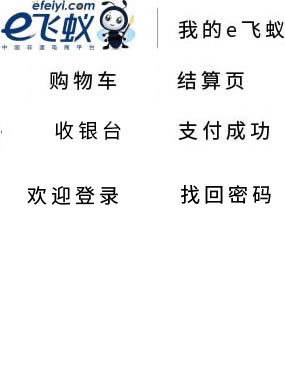
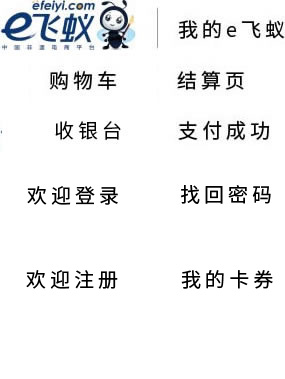
在线咨询

Changed region(s): [[0.0842, 0.6966, 0.4211, 0.7836], [0.6175, 0.6966, 0.786, 0.7836], [0.814, 0.6966, 0.9544, 0.7836]]

diff --git a/ef-website/src/main/webapp/scripts/css/login.css b/ef-website/src/main/webapp/scripts/css/login.css
@@ -1,0 +1,215 @@
+@charset "utf-8";
+body, h1, h2, h3, h4, h5, h6, ul, li, dl, dt, dd, img, input, a, p, strong, em, i {margin:0;padding:0;border:0;list-style:none;font-family:"Microsoft YaHei"}
+strong, b, em {font-weight:normal;font-style:normal}
+img {border:0}
+ul, dl {list-style:none}
+a {color:#000;outline:none;cursor:pointer}
+a:hover {color:#f00;text-decoration:underline}
+/*--reset--.icon {background:url(../images/icon.png) no-repeat}*/
+.hd {width:1200px;margin:0 auto}
+.wh {width:100%;float:left}
+.icon {background:url(../images/icon.png) no-repeat}
+.more {font-family:KaiTi;font-weight:bold;font-size:12px;color:#000}
+.more .icon {background-position:-18px -50px;width:8px;height:7px;float:left;margin-top:8px;margin-right:2px}
+.more:hover .icon {background-position:-26px -50px}
+.red {color:red}
+/*--//End--common*/
+.header {min-width:1200px;border-bottom:3px #000 solid;background:#fff}
+.header .logo {padding:15px 0;float:left}
+.header .logo a {background-position:0 0;width:307px;height:50px;float:left}
+.header .nav ul {float:right;margin-top:15px;margin-right:154px}
+.header .nav li {float:left;line-height:68px;position:relative}
+.header .nav li a {font-size:14px;color:#000;padding:0 30px;font-weight:bolder;font-family:FangSong;position:relative;z-index:5}
+.header .nav li a:hover {color:#f00;text-decoration:underline}
+.header .nav li a.cur {color:#f00}
+.header .nav li .bgbor {border:1px #fff solid;border-bottom:none;background:#fff;width:112px;height:49px;position:absolute;top:16px;left:0;z-index:4}
+.header .nav li.hover>.bgbor a:hover {color:#000;text-decoration:none}
+.header .nav li.hover .bgbor {border:1px #000 solid;border-bottom:none;height:55px}
+.header .nav-links {width:1158px;padding:30px 20px;border:1px #000 solid;position:absolute;top:70px;left:-648px;box-sizing:content-box;background:#fff;z-index:3;display:none}
+.header .nav-links ul {width:105px;float:left;margin:0}
+.header .nav-links li {width:100%;line-height:24px;float:left;font-family:FangSong;font-size:12px}
+.header .nav-links li a {width:100%;float:left;padding:0;text-decoration:underline}
+.header .nav-links li a:hover {color:#f00}
+.header .nav-links .title {border-bottom:1px #b2b2b2 solid;color:#999;padding-bottom:5px;margin-bottom:5px}
+/*--//End--header--*/
+.login-form .icon {height:18px;position:absolute;top:50%;margin-top:-9px;left:10px}
+.login-wrap {width:920px;margin:70px 180px;float:left;font-size:12px}
+.login-wrap .banner {float:left}
+.login-form {width:300px;padding:34px;border:1px #ccc solid;float:right;box-sizing:content-box}
+.login-form legend {border-bottom:0}
+.login-form .mt {margin-bottom:30px}
+.login-form .am-form h1 {font-size:18px;float:left}
+.login-form .am-form .link {float:right;margin-top:5px}
+.login-form .am-form .link a, .login-form .am-form .link p {font-size:12px;color:#999;float:left}
+.login-form .am-form .link a:hover {color:#f00}
+.login-form .am-form .link .reg {color:#036;text-decoration:underline}
+.login-form .am-form-group {width:100%;line-height:25px;float:left;margin-bottom:20px;position:relative}
+.login-form .am-form-group .icon {height:18px;position:absolute;top:50%;margin-top:-9px;left:10px}
+.login-form .am-form-group .txt-yzm {width:156px;float:left;margin-right:16px}
+.login-form .am-form-group .btn-yzm {width:112px;height:36px;line-height:36px;text-align:center;border:1px #ccc solid;float:left;text-decoration:none;font-family:KaiTi}
+.login-form .name {background-position:-68px -50px;width:18px}
+.login-form .pwd {background-position:-87px -50px;width:14px;left:12px}
+.login-form input[type=text], .login-form input[type=password] {font-size:12px;padding:9px 0 9px 9px}
+.login-form input[type=text]:focus, .login-form .am-form input[type=password]:focus {border:1px #000 solid;box-shadow:none}
+.login-form label {color:#7b7b7b;font-weight:normal;font-size:12px;margin-bottom: 0}
+.login-form .checkbox {float:left}
+.login-form .agree {font-size:12px;color:#036}
+.login-form .forgetpwd {float:right;color:#036;
+    font-size: 12px;}
+.login-form .forgetpwd:hover {color:#f00}
+.login-form .msg-tips {position:absolute;top:34px;left:0}
+.login-form .msg-tips .msg {color:#f00;font-size:10px;transform:scale(0.3)}
+.login-form .msg-tips span a {color:#036}
+.login-form .am-btn {background:#fff;width:100%;color:#000;border:1px #000 solid;font-size:16px;margin-top:-20px}
+.login-form .am-btn:hover {background:#000;color:#fff}
+.login-form .coagent {margin-top:20px}
+.login-form .coagent h5 {width:100%;color:#666;font-weight:normal;float:left;margin-bottom:15px}
+.login-form .coagent .wechat {background-position:-102px -50px;width:26px;height:22px;float:left}
+.login-form #username, .login-form #password {padding-left:35px}
+.reg-form #username, .reg-form #password {padding-left:10px}
+.reg-form .btn-p1{width:112px;height:36px;line-height:36px;text-align:center;border:1px solid #ccc;float:left;text-decoration:none;background:#fff;transition:all 0.5s;
+    font-size: 12px;}
+.reg-form .btn-p1:hover{background:#000;color:#fff;}
+.text1 {font-size:12px;padding:9px 0 9px 9px;border:1px #000 solid;box-shadow:none;background:#fff;}
+.textam {width:100%!important;}
+.login-reg {width:100%;text-align:center;float:left;padding:50px 0}
+.login-reg a {width:40%;line-height:42px;border:1px #000 solid;text-align:center;display:inline-block;margin:0 6px;color:#000}
+.login-reg .logined a {width:auto;line-height:36px;border:0}
+/*--//End--login-form--*/
+.footer {min-width:1200px;border-top:3px #000 solid;font-size:12px;background:#fff}
+.footer .icon {background:url(../images/footer-icon.png) no-repeat;display:inline-block}
+.footer .service {padding:20px 0;text-align:center;position:relative;}
+.footer .service .phone {background-position:0 0;width:225px;height:58px;position:relative;top:5px}
+.footer .service .platform {background-position:0 -58px;width:143px;height:51px}
+.footer .service .platform a {width:143px;height:51px;line-height:999px;float:left;overflow:hidden}
+.footer .service .chengbao {background-position:0 -109px;width:100px;height:45px}
+.footer .service .chengbao a {width:137px;height:61px;line-height:999px;float:left;overflow:hidden}
+.footer .service .wechat {background-position:0 -155px;width:73px;height:53px;position:relative;top:5px}
+.footer .service .wechat .icon {background:url(../images/fwechat.png) no-repeat;width:215px;height:220px;position:absolute;top:-145px;left:-4px;display:none;}
+.footer .service .line {width:2px;height:42px;display:inline-block;margin:0 30px;background:#c1c1c1}
+.footer .links {background:#000;height:16px;line-height:16px;text-align:center;padding:15px 0}
+.footer .links a {margin:0 10px;display:inline-block;box-sizing:content-box;color:#fff}
+.footer .links a.line {width:1px;height:10px;background:#b3b3b3;top:2px;position:relative}
+.footer .links a:hover {color:#f00;text-decoration:underline}
+.footer .copyright {background:#000;padding:15px 0;text-align:center}
+.footer .copyright .phone strong, .footer .copyright .phone em {font-style:italic;font-weight:bold;letter-spacing:5px;font-size:12px;color:#666}
+.footer .copyright .phone em {font-size:18px}
+.footer .copyright .frlinks {margin:10px 0}
+.footer .copyright .frlinks a {color:#666;margin:0 5px;display:inline-block}
+.footer .copyright .frlinks span, .footer .copyright .info {color:#666}
+.thickframe {position:fixed;top:0;left:0;z-index:100;width:100%;height:100%;border:0;display:none}
+.thickframe .thickdiv {position:fixed;top:0;left:0;z-index:101;width:100%;height:100%;background:#000;border:0;filter:alpha(opacity =60);opacity:.6}
+.thickframe .thickbox {width:1000px;height:500px;position:fixed;top:50%;margin-top:-250px;left:50%;margin-left:-500px;z-index:102;overflow:hidden;padding:0;border:4px solid rgba(0, 0, 0, 0.1);border-radius:5px;-moz-border-radius:5px;-webkit-border-radius:5px;background:#fff}
+.thickframe .thicktitle {height:27px;padding:0 10px;border:solid #C4C4C4;border-width:1px 1px 0;background:#F3F3F3;line-height:27px;font-family:arial, "\5b8b\4f53";font-size:14px;font-weight:bold;color:#333}
+.thickframe .thickcon {overflow:auto;background:#fff;border:1px solid #C4C4C4;padding:10px}
+.thickframe #protocol-con{height:356px;overflow:auto;padding:10px 20px 0 10px;font-size:12px}
+.thickframe #protocol-con h3 {font-size:14px;line-height:40px}
+.thickframe #protocol-con h4 {line-height:30px}
+.thickframe #protocol-con p {line-height:20px}
+.thickframe .thickcon .btnt{width:322px;margin:20px auto 0}
+.thickframe .thickcon .btnt .btn-img{width:322px;height:34px;line-heiht:34px;background:#e4393c;color:#FFF;-moz-border-radius:3px;-webkit-border-radius:3px;border-radius:3px;font-family:SimSun;font-size:16px;font-weight:800}
+.thickframe .thickclose:link {display:block;position:absolute;z-index:100000;top:7px;right:12px;overflow:hidden;width:15px;height:15px;background-position:-276px -50px;font-size:0;line-height:100px}
+.title {font-size:16px;font-weight:bold;border-bottom:2px solid #247ba0;}
+.am-nav-tabs > li.am-active > a,
+.am-nav-tabs > li.am-active > a:hover,
+.am-nav-tabs > li.am-active > a:focus {color:#555;background-color:#fff;border:1px solid #ddd;border-bottom-color:transparent;cursor:default;background-color:#8cc5fb;color:white;}
+.am-active {background-color:#8cc5fb;}
+/*--//End--footer*/
+a, .ul-item li, .ul-item li img, .imgfilter {-webkit-transition:all 0.4s;-moz-transition:all 0.4s;transition:all 0.4s}
+.imgfilter:hover {opacity:0.6;filter:alpha(opacity=60)}
+.more:hover, .footer .copyright .frlinks a:hover, .shop-sort .link2 dd a:hover {color:#f00;text-decoration:underline}
+.login-form .mt {margin-bottom:30px}
+.login-form h1 {font-size:18px;float:left}
+.login-form .link {float:right;margin-top:5px}
+.login-form .link a, .login-form .am-form .link p {font-size:12px;color:#999;float:left}
+.login-form .link a:hover {color:#f00}
+.login-form .link .reg {color:#036;text-decoration:underline}
+#login-b li {position:absolute;top:0;left:0;}
+#login-b {position:relative;width:490px;height:410px}
+.title {font-size:16px;font-weight:bold;border-bottom:2px solid #247ba0;}
+.am-nav-tabs > li.am-active > a, .am-nav-tabs > li.am-active > a:hover, .am-nav-tabs > li.am-active > a:focus {color:#555;background-color:#fff;border:1px solid #ddd;border-bottom-color:transparent;cursor:default;background-color:#8cc5fb;color:white;}
+.am-active {background-color:#8cc5fb;}
+/*--//End--transition*/
+.dialog-login .content {
+    width:806px;
+    height: 468px;
+    background: #fff;
+    position: fixed;
+    top:50%;
+    left: 50%;
+    margin-top:-234px;
+    margin-left: -403px;
+    z-index:2;
+}
+.dialog-login .content .icon-close {
+    background:url(../images/login.png) no-repeat 0 0;
+    width: 31px;
+    height: 29px;
+    position:absolute;
+    top:10px;
+    right:-51px;
+    z-index: 2;
+}
+.dialog-login .overbg {
+    width:100%;
+    hight:100%;
+    background: rgba(0,0,0,.3);
+    position: fixed;
+    top: 0;
+    left: 0;
+    right: 0;
+    bottom: 0;
+    z-index: 1;
+}
+.dialog-login .login-form {
+    border: 0;
+    margin-top:20px;
+    padding-right:50px;
+}
+
+
+
+.dialog-login fieldset {
+    padding: 0;}
+.dialog-login .reg-form {
+    float: left;
+    border:0;
+    margin-top: 0;
+    padding-right: 0;
+}
+.dialog-login .reg-form label {
+    font-size:12px;
+}
+
+.dialog-login .reg-form input[type=text],
+.dialog-login .reg-form input[type=password] {line-height: 35px;
+    padding:0 10px;}
+
+.dialog-login .reg-form .am-form-group .txt-yzm {
+    width: 180px;
+    margin-right:0;
+
+}
+.dialog-login .reg-form .btn-p1 {
+    height:37px;
+    line-height: 35px;
+    float: right;}
+
+.dialog-login .line {
+    width:1px;
+    height:304px;
+    background: #ccc;
+    position: absolute;
+    top:109px;
+    left:50%;
+}
+
+
+
+
+
+
+/*--//End*/
+@media (max-height:720px) {
+    .login-wrap {height:564px}
+}

diff --git a/ef-website/src/main/webapp/scripts/css/myorder.css b/ef-website/src/main/webapp/scripts/css/myorder.css
@@ -16,6 +16,8 @@ a:hover { text-decoration: underline }
 .myod-text5 { width: 127px; height: 51px; background: url(../images/myorder-head.jpg) no-repeat  0px -167px; float: left; }
 /*忘记密码*/
 .myod-text6 { width: 127px; height: 51px; background: url(../images/myorder-head.jpg) no-repeat  -158px -167px; float: left; }
+/*注册中转页*/
+.myod-text6 { width: 127px; height: 51px; background: url(../images/myorder-head.jpg) no-repeat  0 -251px; float: left; }
 /*各页面头部*/
 /*--reset--*/
 .wh1 { width: 100%; float: left; margin-bottom: 27px;position: relative;z-index: 1; }
@@ -649,10 +651,10 @@ a:hover { text-decoration: underline }
 .sp-restore .sp-re-party .sp-le-portrait img { width: 100%; height: 100%; border-radius: 100%; }
 /*我的资讯*/
 /*我的评价*/
-.evaluation .evaluation-nav { width: 851px; float: right; border: 1px solid #ccc; }
+.evaluation .evaluation-nav { width: 852px; float: right; border: 1px solid #ccc; }
 .evaluation .my-order .title table { border: 0; }
 .evaluation .evaluation-nav .sp-page { float: left; text-align: center; width: 100%; height: 45px; line-height: 45px; font-size: 14px; font-family: simsun; }
-.evaluation .appraise { width: 851px; float: right; border: 1px solid #ccc; margin-top: -1px; }
+.evaluation .appraise { width: 852px; float: right; border: 1px solid #ccc; margin-top: -1px; }
 .evaluation .list-refer { padding-left: 45px; }
 .evaluation .list-refer dl dt { width: 55px; height: 55px; float: left; border: 1px solid #ccc; }
 .evaluation .list-refer dl dt img { width: 100%; }
@@ -670,6 +672,7 @@ a:hover { text-decoration: underline }
 .evaluation .mutual .parameter .data { width: 100%; float: left; }
 .evaluation .mutual .parameter .data .data-list { padding-bottom: 30px; width: 100%; float: left; position: relative; }
 .evaluation .mutual .parameter .data .data-list label { float: left; width: 50px; font-size: 12px; font-family: simsun; font-weight: 100 }
+.evaluation .mutual .parameter .data .data-list .lab{line-height: 40px;}
 .evaluation .mutual .parameter .data .data-list .starbox { float: left; width: 300px; position: absolute; top: -17px; left: 50px; }
 .evaluation #quacorgrading input { width: 18px; height: 18px; cursor: pointer; background: url('../images/efeiyi-icon.png') no-repeat scroll -36px -21px; }
 .evaluation .mutual .parameter .data .data-list .tally { float: left; width: 100%; margin: 0; }
@@ -859,6 +862,7 @@ a:hover { text-decoration: underline }
     cursor: pointer;
 
 }
+.my-kj .am-tabs-nav .ul-list li.items1 a{width: 100%;float: left;height: 100%}
 .my-kj .am-tabs-nav .ul-list li.items a {color:#999}
 .my-kj .am-tabs-nav .ul-list li a:hover {text-decoration: none}
 .my-kj .am-tabs-nav .ul-list li.active {
@@ -876,8 +880,13 @@ a:hover { text-decoration: underline }
     border: 1px solid #000;
     float: right;
     text-align: center;
+    cursor: pointer;
 }
-
+.my-kj .am-tabs-nav .ul-list li.items2 a{
+    color: #000;
+    width: 100%;
+    float: left;
+}
 
 .my-kj .am-tabs-bd .am-tab-panel.am-active~.am-tab-panel {
     -webkit-transform: translateX(0%);
@@ -918,18 +927,19 @@ a:hover { text-decoration: underline }
     font-size: 20px;
     position: absolute;
     top: 8px;
-    right: 23px;
+    right: 17px;
     z-index: 2;
     color: #fff;
     line-height: 30px;
 }
+
 .my-kj .serial-list-page .list-zq .serial-list .list1 strong {
     width:146px;
     height: 111px;
     line-height:111px;
     position: absolute;
     top: 0;
-    left: 32px;
+    left: 46px;
     z-index: 2;
     font-size:95px;
     color: #fff;
@@ -1104,7 +1114,7 @@ a:hover { text-decoration: underline }
     margin-bottom:100px;}
 /*优惠券状态1*/
 .coupons{width: 1200px;height: 600px;background:url(../images/imgyhq.png) no-repeat;margin: 0 auto;position: relative}
-.coupons .btn{width: 225px;height: 60px;display: inline-block;background: #cc0000;text-align: center;line-height: 60px;color: #fff;font-size: 30px;text-decoration: none;}
+.coupons .btn{border-radius: 15px;width: 225px;height: 60px;display: inline-block;background: #cc0000;text-align: center;line-height: 60px;color: #fff;font-size: 30px;text-decoration: none;}
 .coupons .promptly{margin: 0px auto ;width: 225px;padding-top: 389px;}
 /*优惠券状态2*/
 .coupons  .celebrate{margin: 0px auto ;width: 500px;padding-top: 310px;}
@@ -1128,3 +1138,31 @@ a:hover { text-decoration: underline }
 .coupons  .impossibility  .act .btn1:hover{color: #fff;background: #000;}
 .coupons  .impossibility  .act .left{float: left}
 .coupons  .impossibility  .act .right{float: right}
+/*我的卡券弹出框*/
+.ytacu{}
+.ytacu .dh{position: fixed;left: 50%;top: 50%;margin-top: -225px;margin-left:-300px;background: #fff;width: 605px;height: 240px;z-index: 103;padding: 60px 74px;border: 1px solid #000;}
+.ytacu .dh .exchange{width: 100%;}
+.ytacu .dh .exchange label{float: left;font-size: 12px;color: #000;width: 119px;margin-top: 12px;}
+.ytacu .dh .exchange input{width: 336px;padding: 15px 13px;border: 1px solid #ccc;font-size: 12px;color: #000;}
+.ytacu .dh p{font-size: 12px;color: #ff0101;text-align: center;position: absolute;top: 115px;left: 192px;}
+.ytacu .dh .no{ width: 15px; height: 15px; position: absolute; top: 15px; right: 20px; cursor: pointer; transition: all 0.5s; background: url(../images/efeiyi-icon.png) no-repeat; }
+.ytacu .dh .btn{width: 150px;height: 40px;line-height: 40px;font-size: 12px;background: #000;color: #fff;display: inline-block;text-align: center;margin: 47px 150px 0 150px;outline: none;}
+.ytacu .bg{background: #000;position: fixed;z-index: 102;opacity: 0.6;left: 0;top:0;bottom: 0;right: 0;}
+.ytacu .cg{position: fixed;left: 50%;top: 50%;margin-top: -225px;margin-left:-300px;background: #fff;width: 605px;height: 370px;z-index: 103;padding: 60px 84px;border: 1px solid #000;}
+.ytacu .cg p{text-align: center;font-size: 16px;color: #000;}
+.ytacu .cg .yhqys{border: 1px solid #999;margin: 30px 0;padding: 22px 0; display: inline-block}
+.ytacu .cg .yhqys .left{margin-left: 32px;width: 125px;height: 68px;background:url('../images/couponx.png')no-repeat;float: left;position: relative}
+.ytacu .cg .yhqys .left strong{width:73px;  height: 55px;  line-height:111px;  position: absolute;  top: -19px;  left: 23px;  z-index: 2;  font-size:48px;  color: #fff;  font-weight: bold;  text-align: center;  font-family: Impact Regular;}
+.ytacu .cg .yhqys .left span{  width: 10px;  font-size: 12px;  position: absolute;  top: 3px;  right: 7px;  z-index: 2;  color: #fff;  line-height: 20px;}
+.ytacu .cg .yhqys .right{margin-left: 17px;width: 222px;float: left;}
+.ytacu .cg .yhqys .right p{color: #999;font-size: 12px;line-height: 23px;text-align: left}
+.ytacu .cg .btn{width: 150px!important;height: 40px;line-height: 40px;font-size: 12px;background: #000;color: #fff!important;display: inline-block;text-align: center;outline: none;float: none!important;}
+/*注册成功*/
+.successful{width: 1000px;margin: 169px auto 0;min-height: 550px;}
+.successful h5{font-size: 48px;color: #000;text-align: center;margin-bottom: 48px;}
+.successful p{font-size: 32px;color: #000;margin-bottom: 39px;text-align: center}
+.successful p span{font-size: 12px;color: #000;}
+.successful .btn-q{margin: 0 auto 29px;width: 531px;height: 54px;}
+.successful .btn-q a{text-decoration: none;outline:none;width: 240px;height: 43px;border: 1px solid #000;background: #000;color: #fff;text-align: center;font-size: 16px;line-height: 43px;}
+.successful .btn-q .but1{float: left}
+.successful .btn-q .but2{float: right}

diff --git a/ef-website/src/main/webapp/scripts/css/app.css b/ef-website/src/main/webapp/scripts/css/app.css
@@ -661,3 +661,22 @@ a, .ul-item li, .ul-item li img, .imgfilter {-webkit-transition:all 0.4s;-moz-tr
 @media (max-height:720px) {
     .login-wrap {height:564px}
 }
+/*商品详情评价2015116*/
+.sift{width: 100%;border-bottom: 1px solid #ededed;float: left;margin-bottom: 18px;}
+.sift .sift-tab{width: 100%;float: left}
+.sift .sift-tab a{padding: 6px;float: left;border: 1px solid #000;color: #000;font-size: 12px;text-decoration: none;margin:0 10px 16px 0; }
+.sift .sift-tab .sift-list{width: 100%;float: left}
+.sift .sift-list .list-one{float: left;padding: 0 16px 15px 0;cursor: pointer;text-decoration: none;color: #000;font-size: 14px;}
+.sift .sift-list .list-one span{margin-left: 6px;}
+.sift .sift-list .list-one span em{margin-left: 6px;color: #999;}
+.sift .sift-list .list-one .sift-radio{vertical-align:middle;margin: 0}
+/*图片*/
+.ae{width: 100%;float: left}
+.dis-pic{width: 100%;}
+.dis-pic .dis-ul{width: 100%;float: left}
+.dis-pic #dis-ul li{width: 40px;cursor: pointer;float: left;padding-right: 10px;border-bottom: 0;margin-bottom:0;}
+.dis-pic .dis-ul img{width: 40px;height: 40px;}
+.dis-pic .box-pic{width:293px;height: 314px;float: left}
+.dis-pic .box-pic .list-pic{width: 100%;float: left}
+.dis-pic .dis-ul li .triangle{background: url(../images/efeiyi-icon.png)0 -251px;width: 9px;height: 5px;float: left;margin: 5px 0 5px 14px;}
+.dis-pic .box-pic img{width:293px;height: 314px;float: left}
